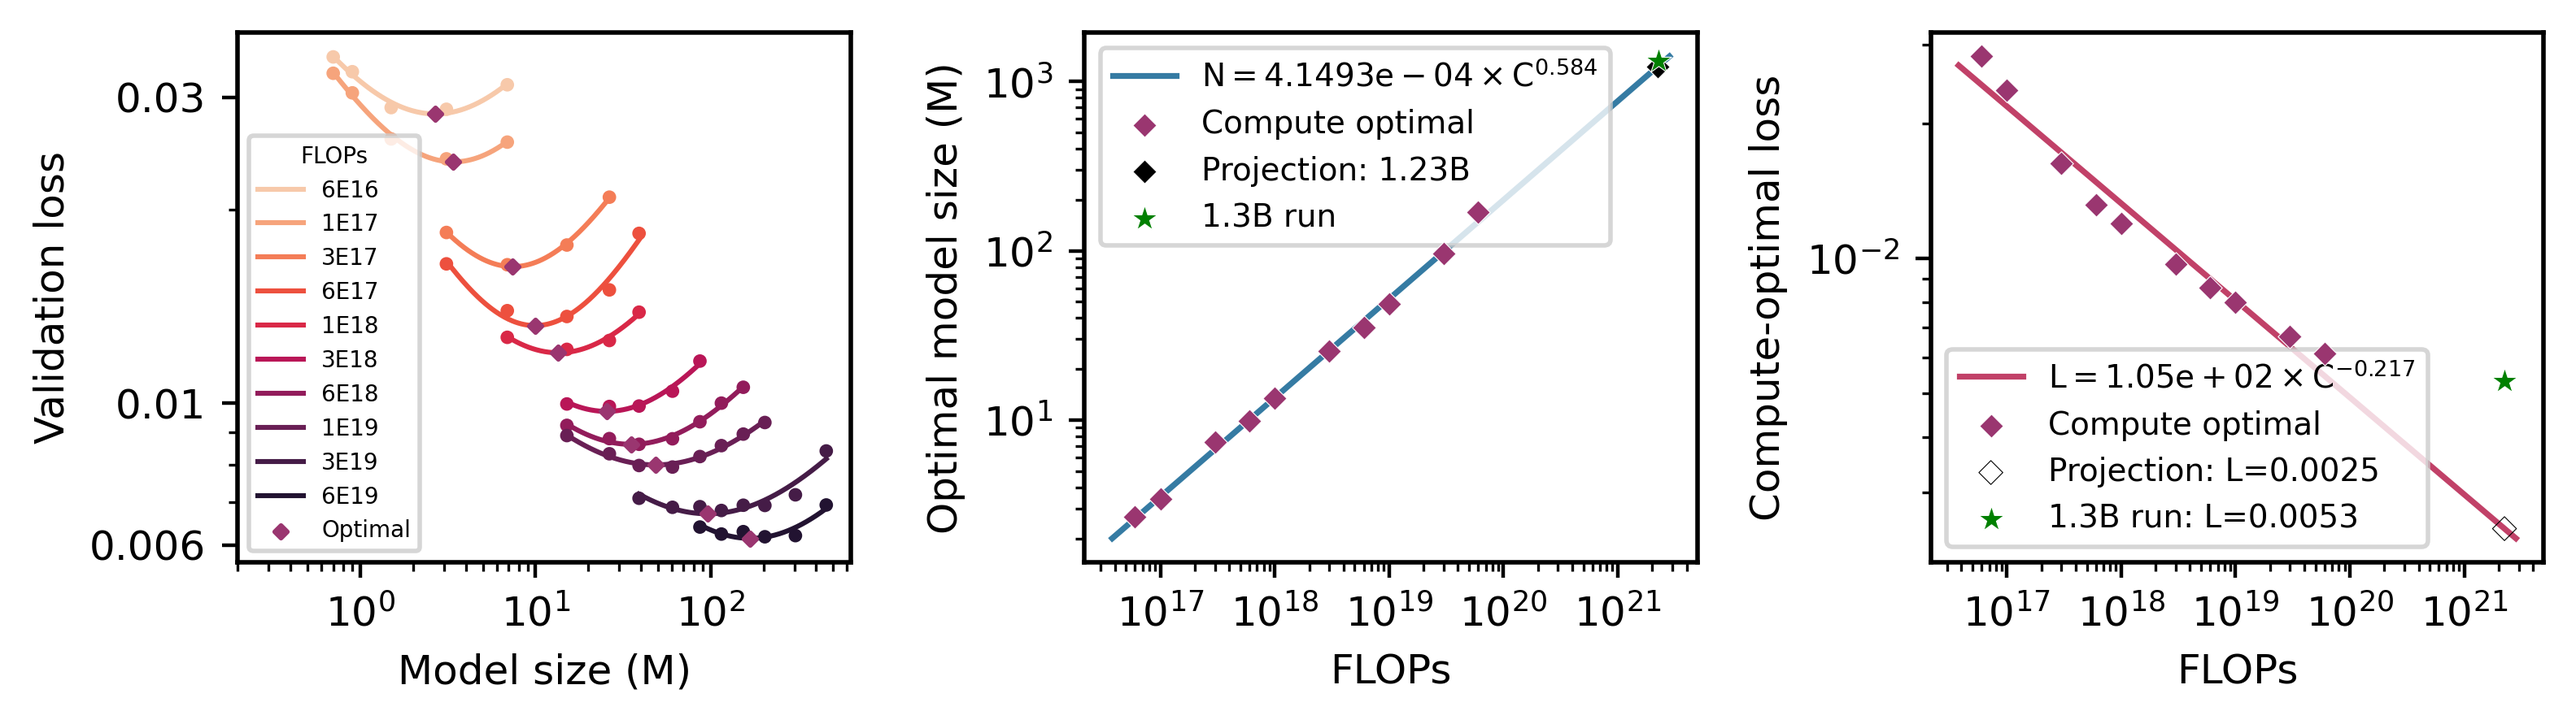
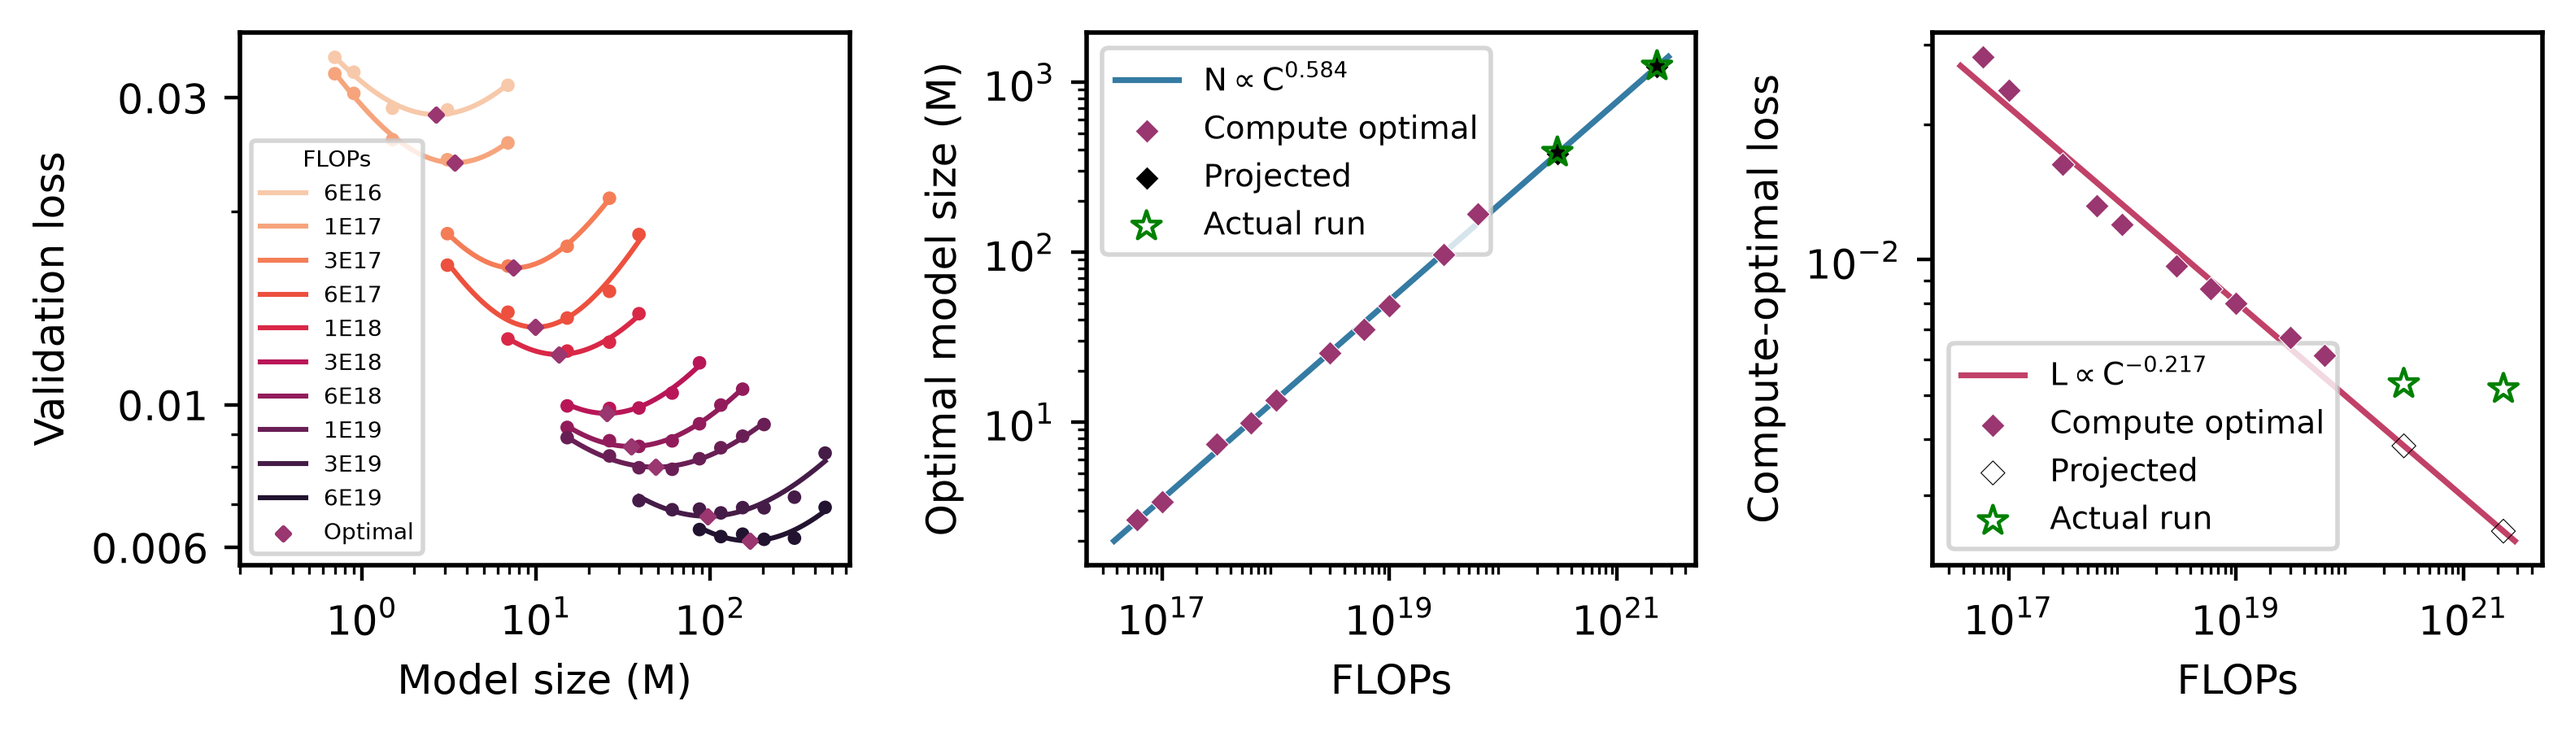
Update README

diff --git a/README.md b/README.md
@@ -1,6 +1,6 @@
 # Neural Scaling Laws for Weather Forecasting
 
-A distributed (Swin) Transformer framework for weather forecasting, designed for neural scaling laws research on ERA5 data. The code is built for multi-GPU training with hybrid parallelism (Data Parallel + Tensor Parallel + Spatial Parallel). The code implements continual learning with periodic cooldowns for computational efficiency.
+A distributed (Swin) Transformer framework for weather forecasting, designed for neural scaling laws research on ERA5 data. The code is built for multi-GPU training with hybrid parallelism (Data Parallel + Tensor Parallel + Spatial Parallel). Training uses a constant learning rate with periodic cooldowns, so one run can continue across compute budgets and cool down from a checkpoint. The paper is [On Neural Scaling Laws for Weather Emulation through Continual Training](https://arxiv.org/pdf/2603.25687) (NeurIPS 2026).
 
 ![scaling](assets/model-scaling.png)
 
@@ -42,9 +42,11 @@ shifterimg login registry.nersc.gov
 ```
 
 then finally run:
+
 ```bash
 shifterimg pull registry.nersc.gov/dasrepo/shas1693/weather-pytorch:25.06
 ```
+
 to make the image available to Shifter, then update the batch/launch scripts
 with the new image tag.
 
@@ -137,6 +139,7 @@ python train.py debug=check
 ```
 
 Here's an example of a full train run (use `run_name` and `run_tag` to identify the run in Wandb):
+
 ```bash
 python train.py run_name=scaling run_tag=p4-e1024-d16-lr5em4 \
     data.batch_size=16 optimizer.lr=0.0005 \
@@ -147,19 +150,20 @@ python train.py run_name=scaling run_tag=p4-e1024-d16-lr5em4 \
 ```
 
 For inference, you can run:
+
 ```bash
 python inference.py run_name=scaling run_tag=p4-e1024-d16-lr5em4 \
     inference.checkpoint=/registry/scaling/p4-e1024-d16-lr5em4/checkpoints/ckpt_best.tar \
     inference.checkpoint_hyperparams=/registry/scaling/p4-e1024-d16-lr5em4/hyperparameters.yaml \
 ```
 
-To run benchmarks you add: `inference.run_benchmark=graphcast` or `inference.run_benchmark=hres` for GraphCast and HRES respectively. This will just pull the benchmark predictions from GCS and compute the metrics. Note that, due to GCS, this is a bit slow and could take several minutes per initial condition for the benchmakr runs whereas the Swin models should be done in a minute or so per initial condition (40G A100).
+To run benchmarks you add: `inference.run_benchmark=graphcast` or `inference.run_benchmark=hres` for GraphCast and HRES respectively. This will just pull the benchmark predictions from GCS and compute the metrics. Note that, due to GCS, this can take a few minutes per initial condition for the benchmark runs whereas the Swin models should be done in a minute or so per initial condition (40G A100).
 
 ---
 
 ## Model Architecture
 
-### Swin Transformer (`models/swin.yaml`)
+### Swin Transformer (`config/model/swin.yaml`)
 
 The Swin Transformer is configured via `config/model/swin.yaml`:
 
@@ -177,6 +181,8 @@ coord_pos_embed: true # use coordinate-based positional embedding
 
 ### Key Features
 
+- **Flat Swin blocks**: Pre-RMSNorm window attention and MLP, QK-normalization, and a fixed head dimension of 64. Blocks stay at one resolution: relative position bias and hierarchical patch merging are left out
+- **Periodic longitude**: The shifted-window mask wraps in longitude and stays closed in latitude
 - **Distributed Shifting Window Attention**: Window attention with distributed rolls
 - **Temporal Context**: Spatiotemporal attention within spatial windows and full time with possible causal masking
 - **Distributed Layers**: All layers distributed accordingly to SP and/or TP groups
@@ -185,6 +191,8 @@ coord_pos_embed: true # use coordinate-based positional embedding
 - **Rollout**: Autoregressive rollout training with `TimeStepper` wrapper
 
 We use temporal context of 1 everywhere for this dataset. However, this can be increased to longer contexts if needed.
+
+The paper's runs use AdamW (weight decay `1e-4`), gradient clipping at 1, and float16 mixed precision (`train.amp_dtype=fp16`). The main schedule is `fixed_warmup`: 500 warmup steps, then a constant learning rate (`5e-4` for models larger than about 100M parameters; smaller models use a higher peak). Cooldowns branch with `optimizer.scheduler=cooldown`, `cooldown_fraction=0.05`, and a `1 - sqrt` decay over that fraction of `cooldown_to_iter`. During a cooldown the objective can switch to multi-step rollout or AMSE.
 
 ### Input/Output
 
@@ -213,9 +221,11 @@ use_transformer_engine: true   # use NVIDIA Transformer Engine
 ### Gradient Accumulation
 
 Automatically calculated:
+
 ```
 gradient_accum_steps = batch_size / (micro_batch_size * dp_size)
 ```
+
 `batch_size` must be exactly divisible by `micro_batch_size * dp_size`.
 
 ---
@@ -255,7 +265,6 @@ This prompts before submitting either [`submit_batch.sh`](submit_batch.sh) or [`
 
 Alternatively, you can just run `python train.py` (or `python inference.py` for inference) with the appropriate arguments by overriding Hydra configs as mentioned in the [Configuration with Hydra](#configuration-with-hydra) section.
 
-
 ---
 
 ## Unit Tests
@@ -271,6 +280,7 @@ bash tests/run_tests.sh tp=2 sp1=2 sp2=2 dp=2 nodes=4
 ```
 
 Arguments:
+
 - `tp`: Tensor parallel size
 - `sp1`, `sp2`: Spatial parallel sizes
 - `dp`: Data parallel size
@@ -287,7 +297,6 @@ Pass a test name or path to run a specific test, e.g. `bash tests/run_tests.sh t
 | `test_losses.py` | Loss function correctness |
 | `test_metrics.py` | Metric computation |
 | `test_dataloader.py` | Data loading pipeline |
-
 
 ---
 
@@ -314,7 +323,7 @@ valid_years: [2017]
 test_years: [2018, 2019, 2020, 2021, 2022]
 ```
 
-Data is mounted at `/data` in the container .
+Training starts in 1979 (`train_start_year`), 2017 is validation, and 2018–2022 are held out. The paper reports WeatherBench metrics on 2020 only: initial conditions every 12 hours (732 in total). Data is mounted at `/data` in the container.
 
 ---
 
@@ -359,7 +368,6 @@ python train.py train.finetune_from=/path/to/ckpt.tar <other_arguments>
 
 Enable NVIDIA Nsight profiling and use this profile command in the run script:
 
-
 ```bash
 NSYS_ARGS="--trace=cuda,cublas,nvtx --kill none -c cudaProfilerApi -f true"
 PROFILE_DIR="/path/to/where/you/want/to/store/profiles"
@@ -382,6 +390,7 @@ Profiles are saved to the output directory.
 ├── submit_batch.sh       # SLURM batch script
 ├── submit_batch_inference.sh # SLURM batch script for inference
 ├── jobs/                 # machine-specific reference submission scripts
+├── scripts/              # IsoFLOP analysis (isoflop.py, sweep_flops.py)
 ├── config/               # Hydra configuration files
 ├── models/
 │   ├── swin.py           # Swin Transformer base implementation
@@ -432,18 +441,20 @@ param.comm_metadata = {
 }
 ```
 
-
 ---
 
 ## Reference
+
 If you find this codebase useful, please cite:
 
 ```
-@article{subramanian2026neural,
+@misc{subramanian2026neuralscalinglawsweather,
   title={On Neural Scaling Laws for Weather Emulation through Continual Training},
-  author={Subramanian, Shashank and Kiefer, Alexander and Nigmetov, Arnur and Gholami, Amir and Morozov, Dmitriy and Mahoney, Michael W},
-  journal={arXiv preprint arXiv:2603.25687},
-  note={ICLR 2026 Workshop on Foundation Models for Science: Real-World Impact and Science-First Design},
-  year={2026}
+  author={Shashank Subramanian and Alexander Kiefer and Arnur Nigmetov and Amir Gholami and Dmitriy Morozov and Michael W. Mahoney},
+  year={2026},
+  eprint={2603.25687},
+  archivePrefix={arXiv},
+  primaryClass={cs.LG},
+  url={https://arxiv.org/abs/2603.25687},
 }
 ```
